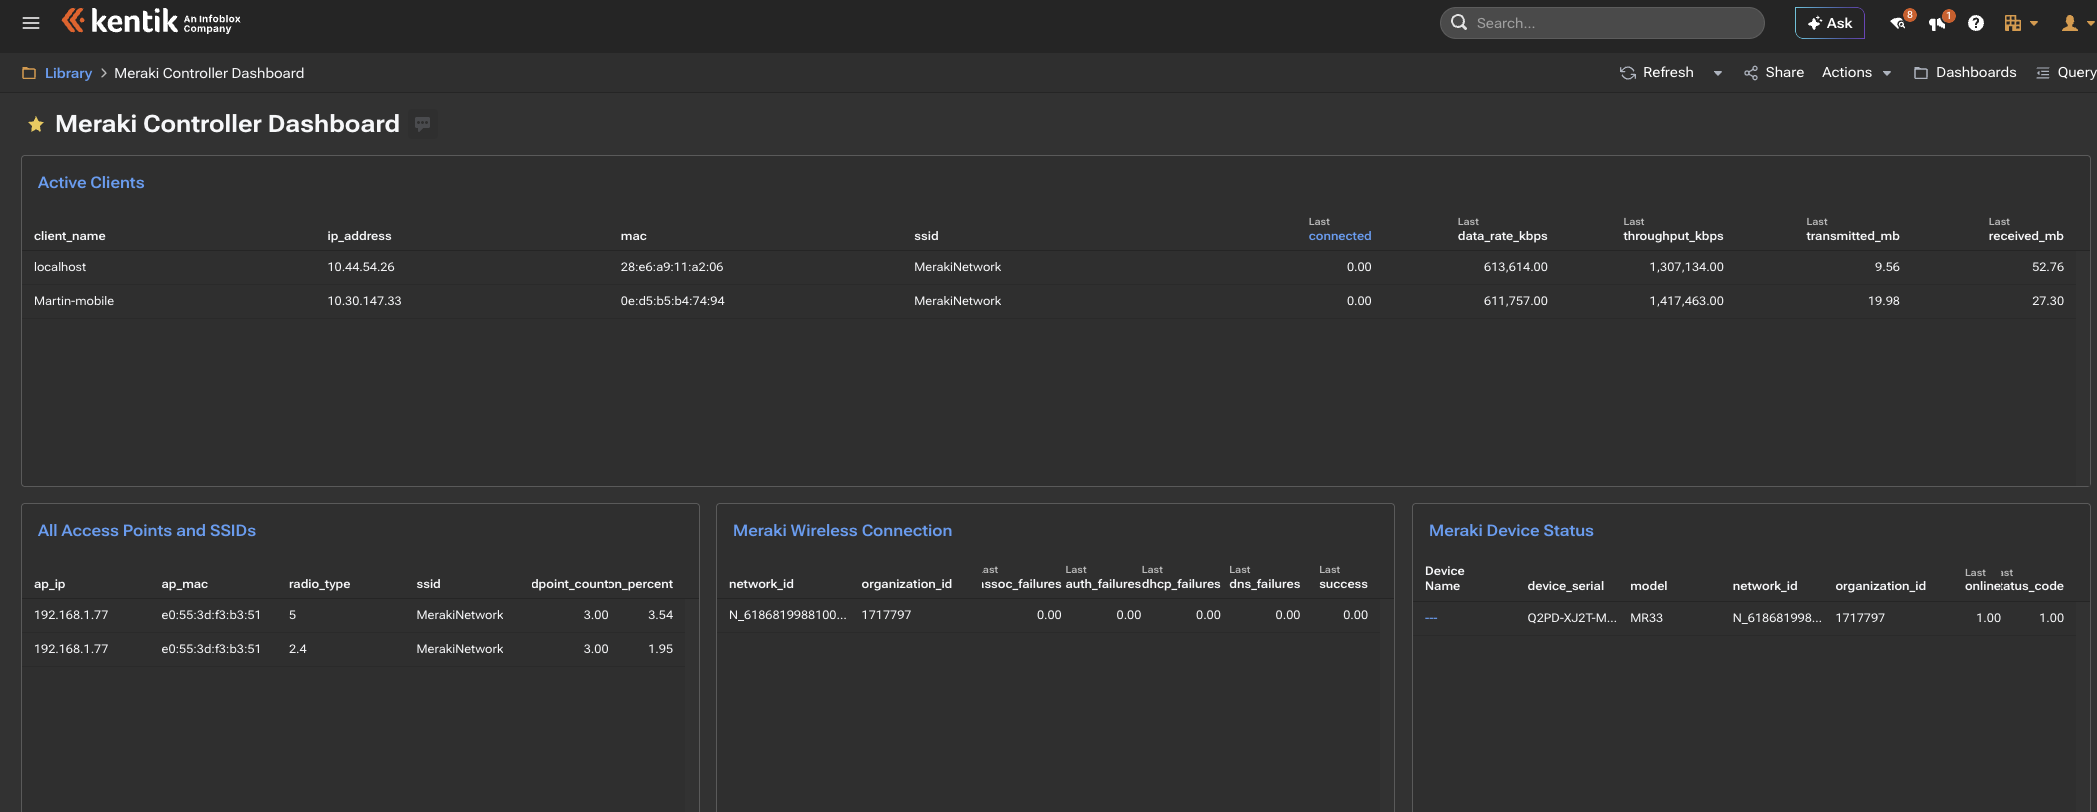
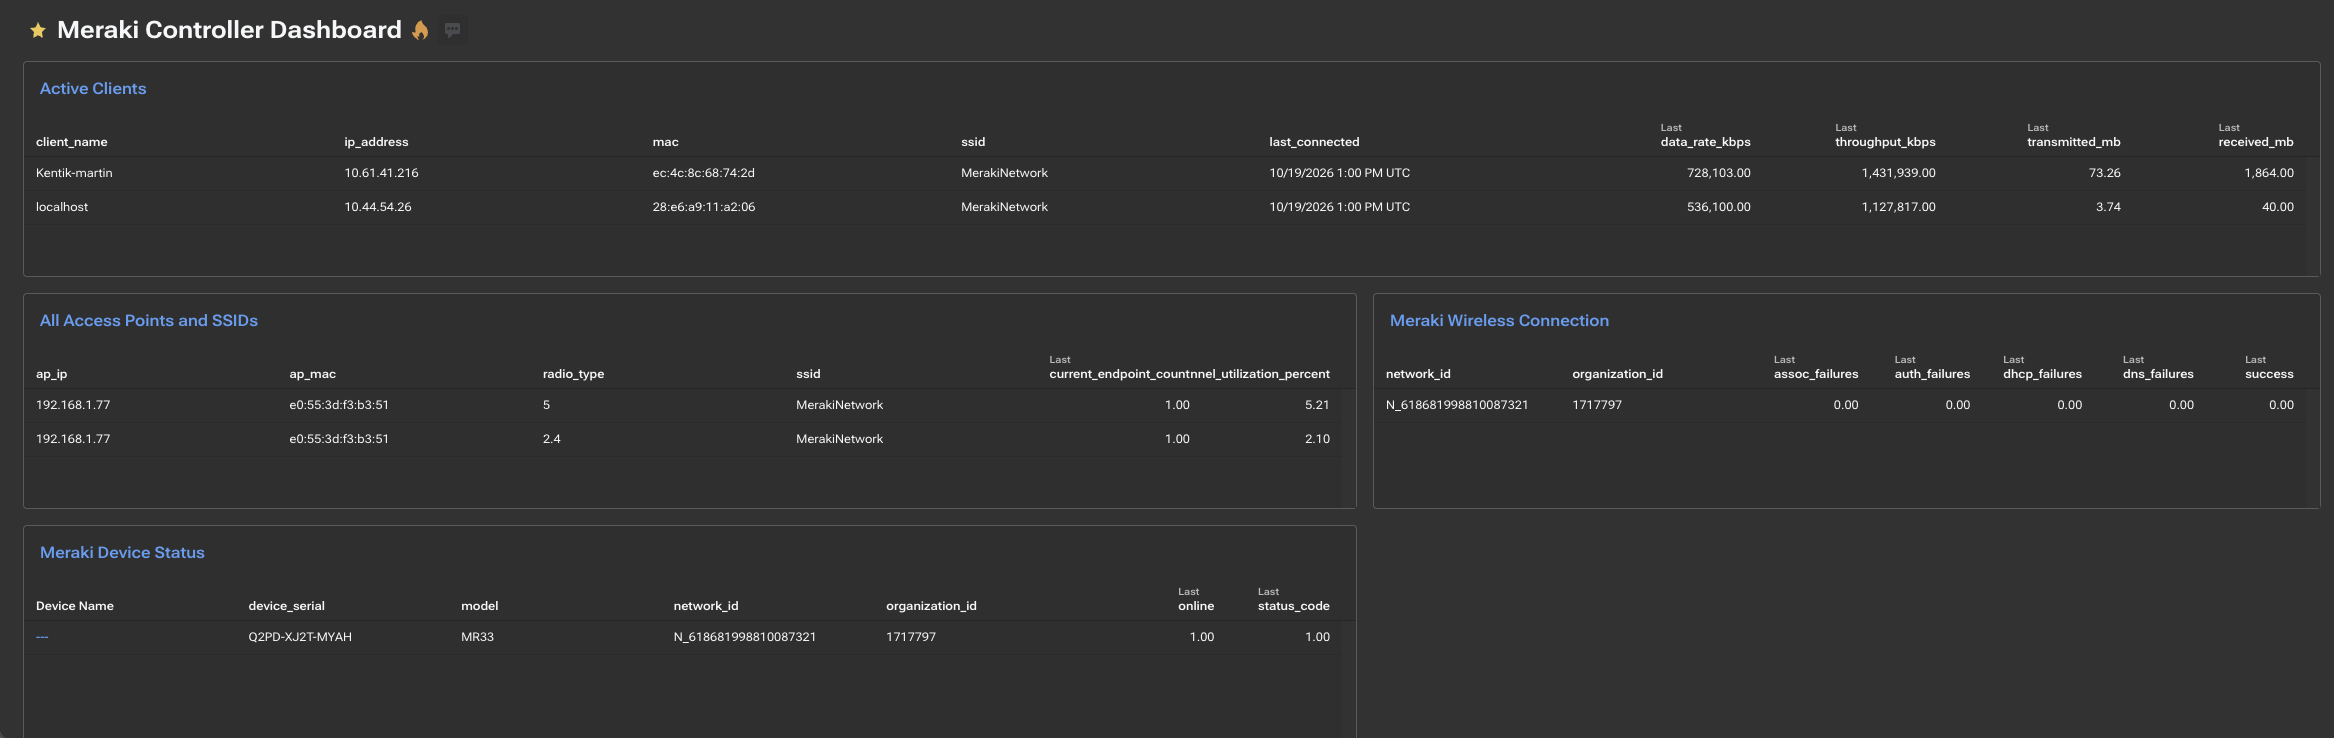
Add files via upload

diff --git a/collector.py b/collector.py
@@ -36,6 +36,7 @@ class Config:
     max_retries: int = 3
     retry_backoff_seconds: float = 1.0
     max_pages: int = 100
+    last_connected_round_seconds: int = 3600
 
 
 def load_dotenv_file(path: str = ".env") -> None:
@@ -76,6 +77,7 @@ def load_config(env: dict[str, str] | None = None) -> Config:
         max_retries=max(0, int(env.get("HTTP_MAX_RETRIES", "3"))),
         retry_backoff_seconds=max(0.0, float(env.get("HTTP_RETRY_BACKOFF_SECONDS", "1.0"))),
         max_pages=max(1, int(env.get("MERAKI_MAX_PAGES", "100"))),
+        last_connected_round_seconds=max(0, int(env.get("LAST_CONNECTED_ROUND_SECONDS", "3600"))),
     )
 
 
@@ -118,11 +120,44 @@ def iso_to_ns(value: str | None) -> int | None:
         return None
 
 
-def format_last_connected(epoch_seconds: int | float) -> str:
-    """Format Meraki lastSeen like the Dashboard Connected column, in UTC."""
-    connected = datetime.fromtimestamp(float(epoch_seconds), tz=timezone.utc)
+def parse_last_seen(value: Any) -> float | None:
+    """Return Unix seconds from Meraki lastSeen (epoch number, numeric string, or ISO-8601)."""
+    if value is None or isinstance(value, bool):
+        return None
+    if isinstance(value, (int, float)):
+        seconds = float(value)
+    else:
+        text = str(value).strip()
+        if not text:
+            return None
+        try:
+            seconds = float(text)
+        except ValueError:
+            try:
+                parsed = datetime.fromisoformat(text.replace("Z", "+00:00"))
+            except ValueError:
+                return None
+            if parsed.tzinfo is None:
+                parsed = parsed.replace(tzinfo=timezone.utc)
+            return parsed.timestamp()
+    if seconds > 1e12:  # milliseconds
+        seconds /= 1000.0
+    return seconds if seconds > 0 else None
+
+
+def format_last_connected(epoch_seconds: int | float, round_seconds: int = 0) -> str:
+    """Format Meraki lastSeen as a readable UTC date/time.
+
+    round_seconds floors the value (for example 3600 = hour) so the dimension
+    changes less often; values of 60 or more omit seconds from the display.
+    """
+    epoch = float(epoch_seconds)
+    if round_seconds > 0:
+        epoch = epoch - (epoch % round_seconds)
+    connected = datetime.fromtimestamp(epoch, tz=timezone.utc)
     hour = connected.hour % 12 or 12
-    return f"{connected:%m/%d/%Y} {hour}:{connected:%M:%S} {connected:%p} UTC"
+    clock = f"{hour}:{connected:%M}" + (f":{connected:%S}" if round_seconds < 60 else "")
+    return f"{connected:%m/%d/%Y} {clock} {connected:%p} UTC"
 
 
 RETRYABLE_HTTP_STATUS = {408, 425, 429, 500, 502, 503, 504}
@@ -327,7 +362,7 @@ def _device_tags(device: dict[str, Any], org_id: str, serial: str | None = None)
     }
 
 
-def build_metrics(payloads: dict[str, Any], org_id: str, timestamp_ns: int | None = None) -> list[str]:
+def build_metrics(payloads: dict[str, Any], org_id: str, timestamp_ns: int | None = None, last_connected_round_seconds: int = 3600) -> list[str]:
     devices = {d.get("serial", ""): d for d in payloads.get("devices", [])}
     result: list[str] = []
 
@@ -479,13 +514,15 @@ def build_metrics(payloads: dict[str, Any], org_id: str, timestamp_ns: int | Non
                 "transmitted_mb": sent_kb / 1024.0,
                 "received_mb": received_kb / 1024.0,
             }
-            last_seen = client.get("lastSeen")
+            last_seen = parse_last_seen(client.get("lastSeen"))
             client_timestamp = timestamp_ns
-            if isinstance(last_seen, (int, float)):
-                client_timestamp = int(float(last_seen) * 1_000_000_000)
-                connected = datetime.fromtimestamp(float(last_seen), tz=timezone.utc)
+            # A dimension (tag) so Kentik tables show it as readable text.
+            tags["last_connected"] = "unknown"
+            if last_seen is not None:
+                client_timestamp = int(last_seen * 1_000_000_000)
+                connected = datetime.fromtimestamp(last_seen, tz=timezone.utc)
                 fields["connected_at"] = connected.isoformat().replace("+00:00", "Z")
-                fields["last_connected"] = format_last_connected(last_seen)
+                tags["last_connected"] = format_last_connected(last_seen, last_connected_round_seconds)
             signal = signal_by_key.get(f"{network_id}|{mac.lower()}") or signal_by_mac.get(mac.lower(), {})
             if signal.get("rssi") is not None:
                 fields["signal_strength_dbm"] = float(signal["rssi"])
@@ -637,7 +674,7 @@ def collect_once(config: Config, mode: str, dry_run: bool = False) -> list[str]:
                     if isinstance(rates, list):
                         payloads["wireless_data_rates"][f"{network_id}|{mac}"] = rates
 
-    metrics = build_metrics(payloads, config.org_id)
+    metrics = build_metrics(payloads, config.org_id, last_connected_round_seconds=config.last_connected_round_seconds)
     body = "\n".join(metrics) + "\n"
     if dry_run or mode == "mock":
         print(body, end="")

diff --git a/test_collector.py b/test_collector.py
@@ -16,6 +16,7 @@ from collector import (
     load_config,
     load_dotenv_file,
     mock_payloads,
+    parse_last_seen,
     send_to_kentik,
 )
 
@@ -65,7 +66,8 @@ class CollectorTests(unittest.TestCase):
         self.assertIn("throughput_kbps=12000.0", wireless)
         self.assertIn("signal_strength_dbm=-58.0", wireless)
         self.assertIn("connected_at=\"2026-10-14T12:00:00Z\"", wireless)
-        self.assertIn("last_connected=\"10/14/2026 12:00:00 PM UTC\"", wireless)
+        self.assertIn("last_connected=10/14/2026\\ 12:00\\ PM\\ UTC", wireless)
+        self.assertNotIn("last_connected=\"", wireless)
         self.assertIn("transmitted_mb=120.5625", wireless)
         self.assertIn("loss_percent=0.5", "\n".join(metrics))
         self.assertIn("latency_ms=23.4", "\n".join(metrics))
@@ -73,6 +75,25 @@ class CollectorTests(unittest.TestCase):
     def test_last_connected_matches_dashboard_style_utc_format(self):
         self.assertEqual(format_last_connected(1791979200), "10/14/2026 12:00:00 PM UTC")
         self.assertEqual(format_last_connected(1791992312), "10/14/2026 3:38:32 PM UTC")
+        self.assertEqual(format_last_connected(1791992312, 3600), "10/14/2026 3:00 PM UTC")
+        self.assertEqual(format_last_connected(1791992312, 86400), "10/14/2026 12:00 AM UTC")
+
+    def test_parse_last_seen_accepts_epoch_string_and_iso(self):
+        self.assertEqual(parse_last_seen(1791979200), 1791979200.0)
+        self.assertEqual(parse_last_seen("1791979200"), 1791979200.0)
+        self.assertEqual(parse_last_seen(1791979200000), 1791979200.0)
+        self.assertEqual(parse_last_seen("2026-10-14T12:00:00Z"), 1791979200.0)
+        self.assertIsNone(parse_last_seen(None))
+        self.assertIsNone(parse_last_seen("not a date"))
+
+    def test_missing_last_seen_is_unknown(self):
+        payloads = mock_payloads()
+        for clients in payloads["wireless_clients"].values():
+            for client in clients:
+                client.pop("lastSeen", None)
+        metrics = build_metrics(payloads, "org-123", 1700000000000000000)
+        wireless = next(x for x in metrics if x.startswith("meraki_wireless_client,"))
+        self.assertIn("last_connected=unknown", wireless)
 
     def test_escaping(self):
         self.assertEqual(escape_tag("a b,c=d"), "a\\ b\\,c\\=d")

diff --git a/skills/meraki-kentik-metrics/SKILL.md b/skills/meraki-kentik-metrics/SKILL.md
@@ -21,10 +21,10 @@ The bundled collector emits these starter measurements:
 - `meraki_uplink_quality`: loss percentage and latency in milliseconds.
 - `meraki_uplink_status`: uplink state and numeric status code.
 - `meraki_wireless_connection`: association, authentication, DHCP, DNS, and successful connection counts.
-- `meraki_wireless_client`: client name, IPv4/IPv6, SSID, MAC, connected state, Dashboard-style readable `last_connected` UTC date/time, backward-compatible ISO-8601 `connected_at`, signal strength/RSSI, SNR, PHY data rate in Kbps and bps, throughput in Kbps, and sent/received usage in raw KB plus MB display metrics.
+- `meraki_wireless_client`: client name, IPv4/IPv6, SSID, MAC, connected state, `last_connected` readable UTC date/time as a rounded dimension, backward-compatible ISO-8601 `connected_at` field, signal strength/RSSI, SNR, PHY data rate in Kbps and bps, throughput in Kbps, and sent/received usage in raw KB plus MB display metrics.
 - `meraki_wireless_access_point`: AP name, management IP, AP MAC, BSSID, SSID, radio/band, channel, channel width, current endpoint count, AP bandwidth usage in total/sent/received Kbps, and total/Wi-Fi/non-Wi-Fi channel utilization percentages.
 
-The client measurement uses client identity attributes as dimensions for SolarWinds-style per-client views. Use `last_connected` for a human-readable Connected column; it is formatted in UTC to keep dashboards consistent across hosts, while the point timestamp remains the numeric `lastSeen` epoch and `connected_at` remains available for existing queries. Review cardinality before scaling beyond a small proof of concept; set `MAX_WIRELESS_CLIENTS` to cap per-client data-rate calls. The AP measurement uses AP, BSSID, SSID, and radio identity attributes as dimensions; set `MAX_WIRELESS_ACCESS_POINTS` to cap AP history calls.
+The client measurement uses client identity attributes as dimensions for SolarWinds-style per-client views. Use the `last_connected` dimension for a human-readable Connected column. Because each new value creates a new series, it is rounded down to `LAST_CONNECTED_ROUND_SECONDS` (default 3600; use 86400 for daily or 0 for exact seconds); the point timestamp remains the numeric `lastSeen` epoch and `connected_at` remains a field. Review cardinality before scaling beyond a small proof of concept; set `MAX_WIRELESS_CLIENTS` to cap per-client data-rate calls. The AP measurement uses AP, BSSID, SSID, and radio identity attributes as dimensions; set `MAX_WIRELESS_ACCESS_POINTS` to cap AP history calls.
 
 ## Reliability and scale controls
 

diff --git a/README.md b/README.md
@@ -62,7 +62,7 @@ python3 collector.py --mode real --dry-run
 
 `--mode real --dry-run` reads Meraki credentials and queries Meraki, but does not send anything to Kentik.
 
-The wireless client lookback defaults to 24 hours through `MERAKI_CLIENT_TIMESPAN=86400`; adjust it in `.env` if a shorter or longer view is needed. Client rows include `last_connected` as a Dashboard-style readable UTC value such as `10/14/2026 12:00:00 PM UTC`, while retaining the existing `connected_at` ISO-8601 field and point timestamp.
+The wireless client lookback defaults to 24 hours through `MERAKI_CLIENT_TIMESPAN=86400`; adjust it in `.env` if a shorter or longer view is needed. Client rows include `last_connected` as a **dimension** (text), such as `10/14/2026 12:00 PM UTC`, so Kentik tables can show it as a readable column. It is rounded down to `LAST_CONNECTED_ROUND_SECONDS` (default 3600 = hourly; 86400 = daily; 0 = exact seconds) because every new value creates a new series in Kentik. The ISO-8601 `connected_at` field and the point timestamp are unchanged.
 
 For larger organizations, the collector follows Meraki `Link` headers to retrieve additional pages. Transient Meraki and Kentik failures are retried with exponential backoff, and HTTP 429 responses honor `Retry-After`. Tune `HTTP_MAX_RETRIES`, `HTTP_RETRY_BACKOFF_SECONDS`, and `MERAKI_MAX_PAGES` in `.env` if needed.
 
